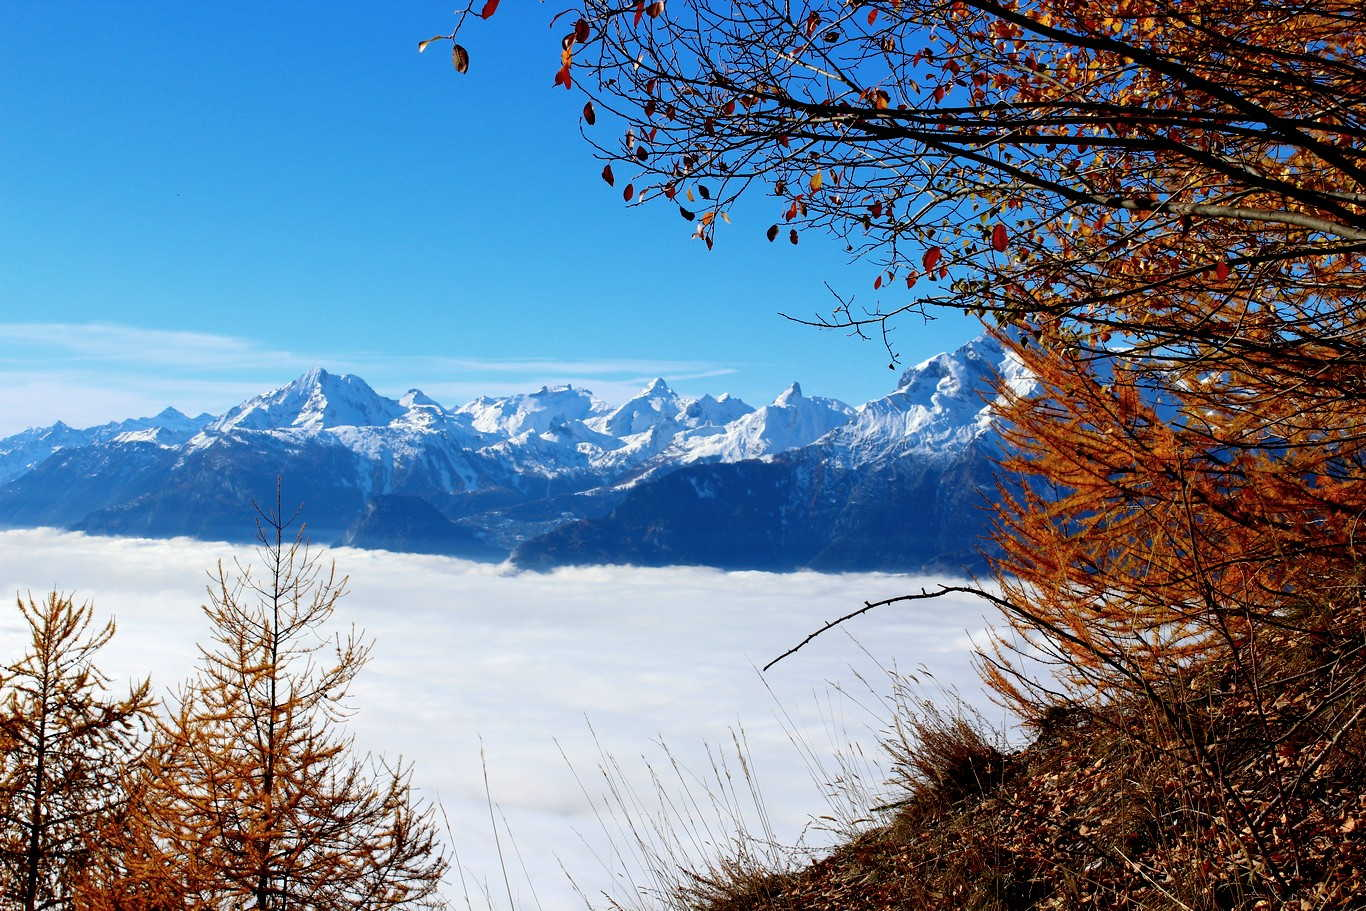
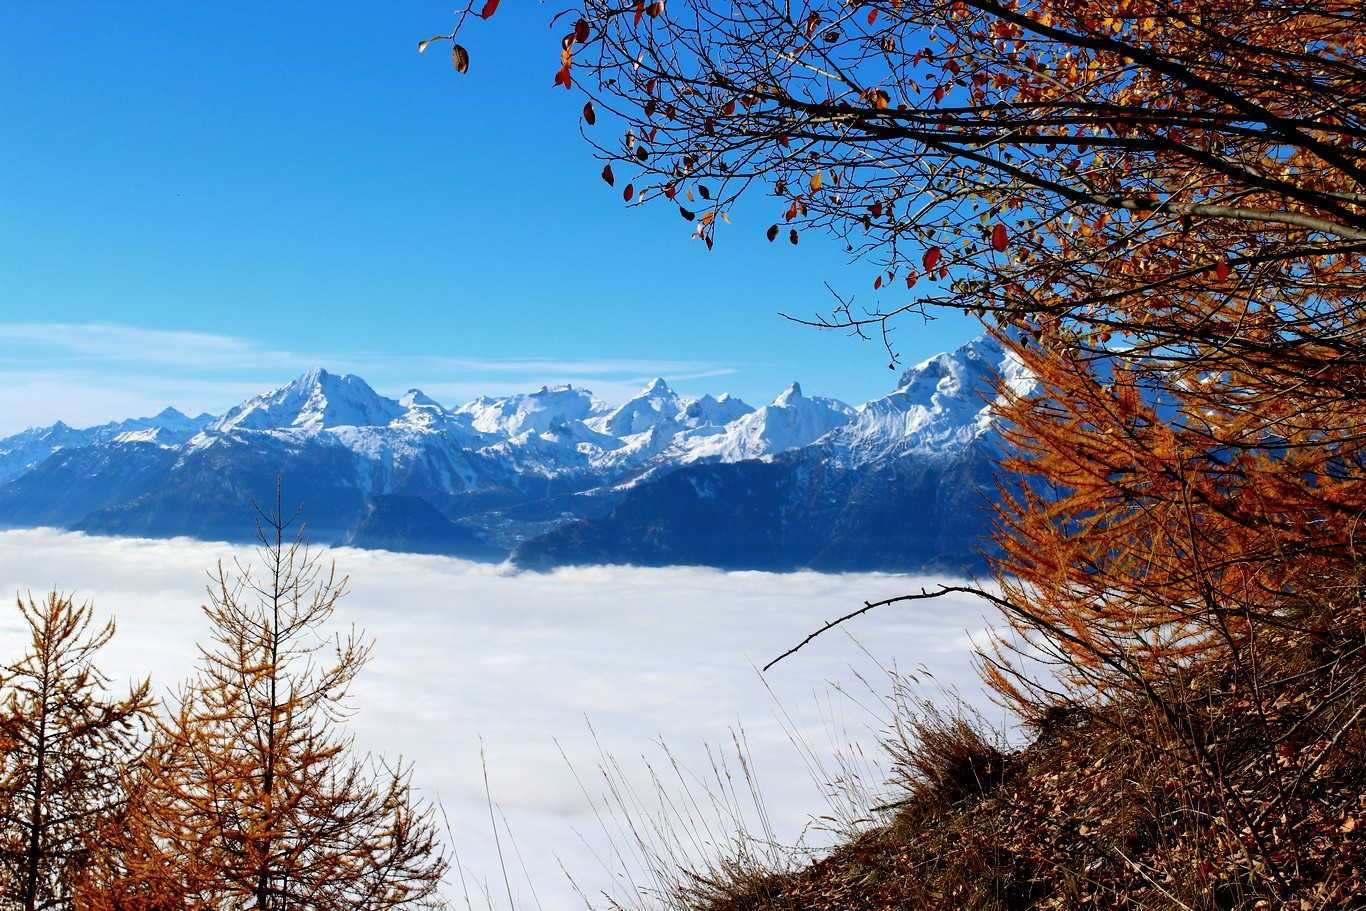
Updated left image to a smaller one to improve page loading

diff --git a/_layouts/default.html b/_layouts/default.html
@@ -97,7 +97,7 @@
             <ul class="copyright">
                 <li>&copy; {{ site.author.name }}</li>
                 <li>Design: <a href="http://html5up.net">HTML5 UP</a></li>
-                <li>Image: <a href="https://commons.wikimedia.org/wiki/File:Nax_-_Valais_-_CH_-_131117_0654.JPG">Largue240</a></li>
+                <li>Image: <a href="https://pixabay.com/en/cervin-zermatt-swiss-nature-travel-971230/">ricardoadelaide</a></li>
                 <li>Jekyll Template: <a href="http://cloudcannon.com">Cloud Cannon</a></li>
             </ul>
         </footer>

diff --git a/_sass/_vars.scss b/_sass/_vars.scss
@@ -1,5 +1,5 @@
 // header image
-$background-image: '../public/Nax.jpg';
+$background-image: '../public/cervin.jpg';
 // Duration.
 $duration-transition: 0.2s;
 // Size.
